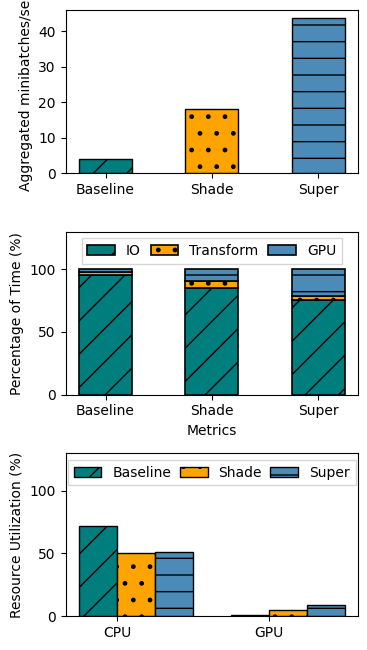
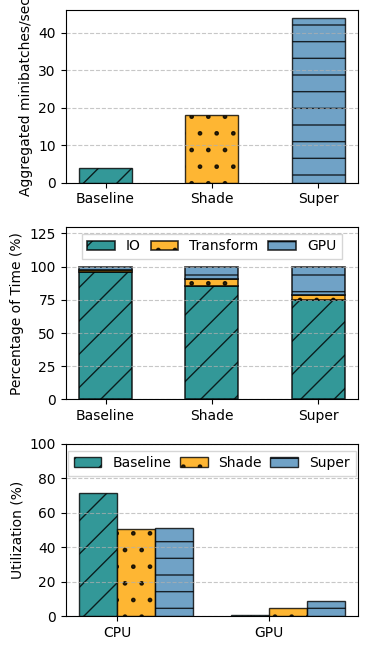
cost anaysis added

diff --git a/figures/system-comparsion/create_system_figure.py b/figures/system-comparsion/create_system_figure.py
@@ -18,7 +18,7 @@ def plot_throughput(ax, labels, values, visual_map, order, bar_width=0.5, includ
                alpha=visual_attr.get('alpha', 1))
     if include_y_axis_label: 
         ax.set_ylabel('Aggregated minibatches/sec', fontsize=fontsize)
-    # ax.grid(axis='y', linestyle='--', alpha=0.7)
+    ax.grid(axis='y', linestyle='--', alpha=0.7)
     ax.tick_params(axis='y', labelsize=fontsize)
     ax.tick_params(axis='x', labelsize=fontsize)
 
@@ -37,7 +37,7 @@ def plot_time_breakdown(ax, labels, data, visual_map, bar_width=0.25, include_y_
     ax.set_xticklabels(metrics)
     if include_y_axis_label: 
         ax.set_ylabel('Percentage of Time (%)', fontsize=fontsize)
-    # ax.grid(axis='y', linestyle='--', alpha=0.7)
+    ax.grid(axis='y', linestyle='--', alpha=0.7)
     ax.set_ylim([0, 100])
     ax.tick_params(axis='y', labelsize=fontsize)
     ax.tick_params(axis='x', labelsize=fontsize)
@@ -80,6 +80,7 @@ def plot_time_breakdown3(ax, labels, data, visual_map, bar_width=0.25, include_y
                            edgecolor=visual_attr.get('edgecolor', 'black'),
                            alpha=visual_attr.get('alpha', 1.0),
                            linewidth=1.2)
+    ax.grid(axis='y', linestyle='--', alpha=0.7)
 
     # Format x-axis labels
     ax.set_xticks([i + bar_width for i in index])
@@ -134,9 +135,9 @@ def plot_time_breakdown3(ax, labels, data, visual_map, bar_width=0.25, include_y
     # Format x-axis labels
     ax.set_xticks(index)
     ax.set_xticklabels(labels)
+    ax.grid(axis='y', linestyle='--', alpha=0.7)
 
     # Set labels and formatting
-    ax.set_xlabel('Metrics')
     if include_y_axis_label:
         ax.set_ylabel('Percentage of Time (%)', fontsize=fontsize)
 
@@ -144,24 +145,6 @@ def plot_time_breakdown3(ax, labels, data, visual_map, bar_width=0.25, include_y
     ax.legend(loc='upper center', bbox_to_anchor=(0.5, 1.0), ncol=3, fancybox=False, shadow=False, frameon = True,  columnspacing=0.7)
     ax.set_ylim([0, 130])
     plt.tight_layout()
-
-    # for i, label in enumerate(labels):
-    #     y = [data[label][metric] for metric in metrics]
-    #     visual_attr = visual_map.get(label, {})
-    #     ax.bar(x + i * bar_width, y, bar_width, label=label,
-    #            color=visual_attr.get('color', '#4C8BB8'), 
-    #            edgecolor=visual_attr.get('edgecolor', 'black'), 
-    #            hatch=visual_attr.get('hatch', None), 
-    #            alpha=visual_attr.get('alpha', 1.0))
-    # ax.set_xticks(x + bar_width / 2)
-    # ax.set_xticklabels(metrics)
-    # if include_y_axis_label: 
-    #     ax.set_ylabel('Percentage of Time (%)', fontsize=fontsize)
-    # # ax.grid(axis='y', linestyle='--', alpha=0.7)
-    # ax.set_ylim([0, 100])
-    # ax.tick_params(axis='y', labelsize=fontsize)
-    # ax.tick_params(axis='x', labelsize=fontsize)
-    # ax.legend()
 
 
 def plot_utilization(ax, labels, data, visual_map, bar_width=0.25, include_y_axis_label=True, fontsize =12):
@@ -178,23 +161,58 @@ def plot_utilization(ax, labels, data, visual_map, bar_width=0.25, include_y_axi
     ax.set_xticks(x + bar_width / 2)
     ax.set_xticklabels(metrics)
     if include_y_axis_label:
-        ax.set_ylabel('Resource Utilization (%)', fontsize=fontsize)
-    # ax.grid(axis='y', linestyle='--', alpha=0.7)
-    ax.set_ylim([0, 130])
+        ax.set_ylabel('Utilization (%)', fontsize=fontsize)
+    ax.grid(axis='y', linestyle='--', alpha=0.7)
+    ax.set_ylim([0, 100])
     ax.tick_params(axis='y', labelsize=fontsize)
     ax.tick_params(axis='x', labelsize=fontsize)
     # ax.legend()
     ax.legend(loc='upper center', bbox_to_anchor=(0.5, 1.0), ncol=3, fancybox=False, shadow=False, frameon = True,  columnspacing=0.6)
 
 
+def plot_cpu_utilization(ax, labels, values, visual_map, order, bar_width=0.5, include_y_axis_label=True, fontsize =12):
+    labels, values = zip(*sorted(zip(labels, values), key=lambda x: order.get(x[0].lower(), float('inf'))))  
+    for j, label in enumerate(labels):
+        visual_attr = visual_map.get(label, {})
+        ax.bar(label, values[j], width=bar_width, color=visual_attr.get('color', '#4C8BB8'), 
+               edgecolor=visual_attr.get('edgecolor', 'black'), 
+               hatch=visual_attr.get('hatch', None), 
+               alpha=visual_attr.get('alpha', 1))
+    if include_y_axis_label: 
+        ax.set_ylabel('CPU Utilization (%)', fontsize=fontsize)
+    ax.grid(axis='y', linestyle='--', alpha=0.7)
+    ax.tick_params(axis='y', labelsize=fontsize)
+    ax.tick_params(axis='x', labelsize=fontsize)
+
+def plot_gpu_utilization(ax, labels, values, visual_map, order, bar_width=0.5, include_y_axis_label=True, fontsize =12):
+    labels, values = zip(*sorted(zip(labels, values), key=lambda x: order.get(x[0].lower(), float('inf'))))  
+    for j, label in enumerate(labels):
+        visual_attr = visual_map.get(label, {})
+        ax.bar(label, values[j], width=bar_width, color=visual_attr.get('color', '#4C8BB8'), 
+               edgecolor=visual_attr.get('edgecolor', 'black'), 
+               hatch=visual_attr.get('hatch', None), 
+               alpha=visual_attr.get('alpha', 1))
+    if include_y_axis_label: 
+        ax.set_ylabel('GPU Utilization (%)', fontsize=fontsize)
+    ax.grid(axis='y', linestyle='--', alpha=0.7)
+    ax.tick_params(axis='y', labelsize=fontsize)
+    ax.tick_params(axis='x', labelsize=fontsize)
+
 def main():
     # Define colors, hatches, edgecolors, and alphas for specific subcategories
+    # visual_map = {
+    #     'Baseline': {'color': '#007E7E', 'hatch': '', 'edgecolor': 'black', 'alpha': 0.8},
+    #     'Shade': {'color': '#FEA400', 'hatch': '', 'edgecolor': 'black', 'alpha': 0.8},
+    #     'Litdata': {'color': '#FEA400', 'hatch': '', 'edgecolor': 'black', 'alpha': 0.8},
+    #     #  r'$\bf{SUPER}$': {'color': '#000000', 'hatch': '-', 'edgecolor': 'black', 'alpha': 1},
+    #     'Super': {'color': '#4C8BB8', 'hatch': '', 'edgecolor': 'black', 'alpha': 0.8},
+    #     }
     visual_map = {
-        'Baseline': {'color': '#007E7E', 'hatch': '/', 'edgecolor': 'black', 'alpha': 1},
-        'Shade': {'color': '#FEA400', 'hatch': '.', 'edgecolor': 'black', 'alpha': 1},
-        'Litdata': {'color': '#FEA400', 'hatch': '.', 'edgecolor': 'black', 'alpha': 1},
+        'Baseline': {'color': '#007E7E', 'hatch': '/', 'edgecolor': 'black', 'alpha': 0.8},
+        'Shade': {'color': '#FEA400', 'hatch': '.', 'edgecolor': 'black', 'alpha': 0.8},
+        'Litdata': {'color': '#FEA400', 'hatch': '.', 'edgecolor': 'black', 'alpha': 0.8},
         #  r'$\bf{SUPER}$': {'color': '#000000', 'hatch': '-', 'edgecolor': 'black', 'alpha': 1},
-        'Super': {'color': '#4C8BB8', 'hatch': '-', 'edgecolor': 'black', 'alpha': 1},
+        'Super': {'color': '#4C8BB8', 'hatch': '-', 'edgecolor': 'black', 'alpha': 0.8},
         }
 
     csv_file_path = 'C:\\Users\\pw\\Desktop\\reports\\summary.csv' 
@@ -228,16 +246,27 @@ def main():
         compute_values = [val * 100 for val in workload_df['compute%'].tolist()]
         data = {label: {'IO': io_values[i], 'Transform': transform_values[i], 'Compute': compute_values[i]} for i, label in enumerate(labels)}
         plot_time_breakdown3(axs[1], labels, data, visual_map, 0.5, include_y_axis_label,fontsize)
-
-        # Utilization
+        # # Utilization
         cpu_values = [json.loads(val)['mean'] for val in workload_df['cpu_usge'].tolist()]
         gpu_values = [json.loads(val)['mean'] for val in workload_df['gpu_usge'].tolist()]
         data = {label: {'CPU': cpu_values[i], 'GPU': gpu_values[i]} for i, label in enumerate(labels)}
         plot_utilization(axs[2], labels, data, visual_map, 0.25, include_y_axis_label, fontsize)
 
+        # # Utilization
+        # cpu_values = [json.loads(val)['mean'] for val in workload_df['cpu_usge'].tolist()]
+        # data = {label: {'CPU': cpu_values[i]} for i, label in enumerate(labels)}
+        # plot_cpu_utilization(axs[2], labels, cpu_values, visual_map, order, 0.5, include_y_axis_label,fontsize)
+
+        # # Utilization
+        # gpu_values = [json.loads(val)['mean'] for val in workload_df['gpu_usge'].tolist()]
+        # data = {label: {'GPU': gpu_values[i]} for i, label in enumerate(labels)}
+        # plot_gpu_utilization(axs[3], labels, gpu_values, visual_map, order, 0.5, include_y_axis_label,fontsize)
+
+
         plt.tight_layout()
         plt.savefig(f'figures/system-comparsion/{workload}.png', bbox_inches='tight')
         # plt.show()
+        # break
         
      # Create a separate figure for the legend
     fig_legend = plt.figure(figsize=(2.08, 0.1))

diff --git a/figures/cost_analysis/storage_costs_calculations.py b/figures/cost_analysis/storage_costs_calculations.py
@@ -1,4 +1,5 @@
-from figures.cost_analysis.constants import *
+from constants import *
+import json
 
 def calculate_s3_read_request_cost(num_requests):
 
@@ -42,8 +43,11 @@ def cacluate_serverless_cache_costs(num_files, batch_size, duration_hours, keep_
     total_cost = create_batches_lmabda_cost + keep_alive_cost + proxy_cost
     return total_cost
 
-def caclaute_aws_redis_cache_cost(num_files, duration_hours, redis_instacne ='cache.m5.12xlarge'):
-    cache_cost = elasticache_redis_prices_per_hour[redis_instacne] * duration_hours
+def caclaute_aws_redis_cache_cost(num_files, duration_hours, data_size_gb):
+
+    best_redis_instance = find_redis_node(data_size_gb)
+
+    cache_cost = best_redis_instance['cost_per_hour_usd'] * duration_hours
     s3_read_requests_costs = calculate_s3_read_request_cost(num_files)
     return cache_cost  + s3_read_requests_costs
 
@@ -117,39 +121,91 @@ def calculate_cost_savings(severless_cost, aws_redis_cost):
     percentage_savings = (savings / aws_redis_cost) * 100
 
     return percentage_savings
-def main():
+
+def impact_of_differnt_batch_sizes():
+    dataset = 'imagenet'
+    batch_sizes = [4,8,16,32,64,128,256,512]
+    duration_hours = 730
+    cache_proxy = 'c5n.xlarge'
+
+    results = []
+
+    #for percentage in range(10, 110, 10):
+    for batch_size in  batch_sizes:
+
+        num_files = dataset_info[dataset]['num_files']
+        data_size_gb = dataset_info[dataset]['size_gb']
+
+        estimated_severless_cost = cacluate_serverless_cache_costs(
+            num_files=num_files,
+            batch_size=batch_size,
+            duration_hours=duration_hours,
+            ec2_instance_type=cache_proxy
+        )
+
+        results.append(
+            {'batch_size': batch_size,
+             "cost": estimated_severless_cost})
+    
+    return results
+
+
+def system_comaprsion():
     dataset = 'imagenet'
     batch_size = 128
     duration_hours = 730
     cache_proxy = 'c5n.xlarge'
-    estimated_severless_cost = cacluate_serverless_cache_costs (num_files = dataset_info[dataset]['num_files'], batch_size = batch_size, duration_hours = duration_hours, ec2_instance_type=cache_proxy )
-    estimated_aws_redis_cost = caclaute_aws_redis_cache_cost(num_files= dataset_info[dataset]['num_files'], duration_hours=duration_hours,redis_instacne='cache.m5.12xlarge')
-    estimated_elasticache_serverless = caclaute_aws_elasticache_serverless_cache_cost(
-        data_size_gb=dataset_info[dataset]['size_gb'],
-        duration_hours= duration_hours
-    )
-    estimated_gp3_volume_cost = calculate_ebs_cost(
-        volume_size_gb=dataset_info[dataset]['size_gb'],
-        provisioned_iops=3000,
-        provisioned_throughput_mbps=125,
-        snapshot_size_gb=3,
-        snapshot_count = 59.83
-    )
 
-    print(f"Estimated Severless cost: ${estimated_severless_cost:.8f}")
-    print(f"Estimated EasltiCache cost: ${estimated_aws_redis_cost:.8f}")
-    print(f"Estimated EasltiCache Serverless cost: ${estimated_elasticache_serverless:.8f}")
-    print(f"Estimated EBS cost: ${estimated_gp3_volume_cost:.8f}")
+    results = []
 
-    print(f"Cost savings v EasltiCache Redis: {calculate_cost_savings(estimated_severless_cost, estimated_aws_redis_cost):.2f}%")
-    print(f"Cost savings v EasltiCache Serverless: {calculate_cost_savings(estimated_severless_cost, estimated_elasticache_serverless):.2f}%")
-    print(f"Cost losses v EBS: {calculate_cost_savings(estimated_gp3_volume_cost,estimated_severless_cost ):.2f}%")
+    #for percentage in range(10, 110, 10):
+    for percentage in [15, 25, 40, 55, 70, 85, 100]:
 
-   
+        num_files = int(dataset_info[dataset]['num_files'] * (percentage / 100))
+        data_size_gb = dataset_info[dataset]['size_gb'] * (percentage / 100)
 
+        estimated_severless_cost = cacluate_serverless_cache_costs(
+            num_files=num_files,
+            batch_size=batch_size,
+            duration_hours=duration_hours,
+            ec2_instance_type=cache_proxy
+        )
+        estimated_aws_redis_cost = caclaute_aws_redis_cache_cost(
+            num_files=num_files,
+            duration_hours=duration_hours,
+            data_size_gb=data_size_gb
+        )
+        estimated_elasticache_serverless = caclaute_aws_elasticache_serverless_cache_cost(
+            data_size_gb=data_size_gb,
+            duration_hours=duration_hours
+        )
+        estimated_gp3_volume_cost = calculate_ebs_cost(
+            volume_size_gb=data_size_gb,
+            provisioned_iops=3000,
+            provisioned_throughput_mbps=125,
+            snapshot_size_gb=3,
+            snapshot_count=59.83
+        )
+
+        result = {
+            "percentage": percentage,
+            "aws_redis_cost": estimated_aws_redis_cost,
+            "elasticache_serverless_cost": estimated_elasticache_serverless,
+            "severless_cost": estimated_severless_cost,
+
+            # "gp3_volume_cost": estimated_gp3_volume_cost,
+            # "savings_vs_aws_redis": calculate_cost_savings(estimated_severless_cost, estimated_aws_redis_cost),
+            # "savings_vs_elasticache_serverless": calculate_cost_savings(estimated_severless_cost, estimated_elasticache_serverless),
+            # "losses_vs_gp3_volume": calculate_cost_savings(estimated_gp3_volume_cost, estimated_severless_cost)
+        }
+
+        results.append(result)
+
+    # # Write results to a JSON file
+    # with open('cost_analysis_results.json', 'w') as json_file:
+    #     json.dump(results, json_file, indent=4)
+    # print(results)
+    # print("Cost analysis results have been saved to 'cost_analysis_results.json'.")
+    return results
 if __name__ == "__main__":
-    main()
-
-# print(f"Estimated Lambda cost: ${estimated_cost:.2f}")
-
-
+    impact_of_differnt_batch_sizes()

diff --git a/figures/cost_analysis/constants.py b/figures/cost_analysis/constants.py
@@ -13,17 +13,51 @@ ec2_on_demand_cost_per_hour = {
     'c5n.2xlarge': 0.432,  # $0.504 per hour (US East - N. Virginia)
     'c5n.xlarge': 0.216
 }
-elasticache_redis_prices_per_hour = {
-    'cache.t2.micro': 0.017,
-    'cache.t3.micro': 0.017,
-    'cache.t3.small': 0.034,
-    'cache.t3.medium': 0.067,
-    'cache.t3.large': 0.134,
-    'cache.m5.12xlarge': 3.744 
-}
+
+def find_redis_node(gb_size):
+    # Initialize variables to store the best match
+    best_instance = None
+    best_memory = float('inf')  # Start with infinity to find the minimum memory that is sufficient
+
+    for instance in elasticache_redis_instances:
+        memory_gib = instance['memory_gib']
+        
+        # Check if the instance's memory is greater than or equal to the required size
+        if memory_gib >= gb_size:
+            # Check if this instance has the smallest memory capacity that meets or exceeds the required size
+            if memory_gib < best_memory:
+                best_memory = memory_gib
+                best_instance = instance
+
+    return best_instance
+
+
+elasticache_redis_instances = [
+ {"instance_type": "cache.t2.micro", "memory_gib": 0.555, "cost_per_hour_usd": 0.018},
+{"instance_type": "cache.t2.small", "memory_gib": 1.555, "cost_per_hour_usd": 0.036},
+{"instance_type": "cache.t2.medium", "memory_gib": 3.22, "cost_per_hour_usd": 0.070},
+{"instance_type": "cache.t3.micro", "memory_gib": 0.555, "cost_per_hour_usd": 0.015},
+{"instance_type": "cache.t3.small", "memory_gib": 1.555, "cost_per_hour_usd": 0.034},
+{"instance_type": "cache.t3.medium", "memory_gib": 3.22, "cost_per_hour_usd": 0.065},
+{"instance_type": "cache.m5.large", "memory_gib": 6.42, "cost_per_hour_usd": 0.094},
+{"instance_type": "cache.m5.xlarge", "memory_gib": 13.38, "cost_per_hour_usd": 0.188},
+{"instance_type": "cache.m5.2xlarge", "memory_gib": 27.94, "cost_per_hour_usd": 0.376},
+{"instance_type": "cache.m5.4xlarge", "memory_gib": 55.88, "cost_per_hour_usd": 0.752},
+{"instance_type": "cache.m5.12xlarge", "memory_gib": 167.64, "cost_per_hour_usd": 2.256},
+{"instance_type": "cache.m5.24xlarge", "memory_gib": 351.32, "cost_per_hour_usd": 4.512},
+{"instance_type": "cache.r5.large", "memory_gib": 13.38, "cost_per_hour_usd": 0.132},
+{"instance_type": "cache.r5.xlarge", "memory_gib": 27.94, "cost_per_hour_usd": 0.264},
+{"instance_type": "cache.r5.2xlarge", "memory_gib": 55.88, "cost_per_hour_usd": 0.528},
+{"instance_type": "cache.r5.4xlarge", "memory_gib": 111.76, "cost_per_hour_usd": 1.056},
+{"instance_type": "cache.r5.12xlarge", "memory_gib": 335.28, "cost_per_hour_usd": 3.168},
+{"instance_type": "cache.r5.24xlarge", "memory_gib": 669.56, "cost_per_hour_usd": 6.336},
+{"instance_type": "cache.r6g.12xlarge", "memory_gib": 754.5, "cost_per_hour_usd": 3.888}
+
+  ]
+
 
 elasticache_serverless_prices_per_gb_hour =  0.125
 
 dataset_info = {
-    'imagenet': {"num_files": 1096302, 'size_gb': 122.3}
+    'imagenet': {"num_files": 10963020, 'size_gb': 122.3}
     }

diff --git a/figures/cost_analysis/create_impact_of_batch_size_figure.py b/figures/cost_analysis/create_impact_of_batch_size_figure.py
@@ -1,0 +1,38 @@
+import matplotlib.pyplot as plt
+from storage_costs_calculations import impact_of_differnt_batch_sizes
+import numpy as np
+
+data = impact_of_differnt_batch_sizes()
+
+# Extracting batch_sizes and costs
+batch_sizes = [entry['batch_size'] for entry in data]
+costs = [entry['cost'] for entry in data]
+
+# Bar width and positions
+bar_width = 0.6
+r = np.arange(len(batch_sizes))
+
+# Plotting
+plt.figure(figsize=(8.2, 3.8))
+bars = plt.bar(r, costs, color='#4C8BB8', hatch='-', width=bar_width, edgecolor='black', alpha=0.8,  label='Serverless')
+
+# Adding a straight red line
+plt.axhline(y=1651.27, color='red', linestyle='--', linewidth=2, label='AWS Redis')
+
+# Adding labels and title
+plt.xlabel('Batch Size', fontsize=10)
+plt.ylabel('Cost', fontsize=10)
+plt.xticks(r, batch_sizes, fontsize=10)
+plt.yticks(fontsize=10)
+
+# Adding values on top of the bars
+for bar, cost in zip(bars, costs):
+    plt.text(bar.get_x() + bar.get_width() / 2, bar.get_height() + 10, f'${cost:.2f}', 
+             ha='center', va='bottom', fontsize=9)
+plt.ylim([0, 2000])
+plt.legend()
+# Show pl
+plt.tight_layout()
+plt.savefig(f'figures/cost_analysis/batch_size_image_on_cost.png', bbox_inches='tight')
+
+plt.show()
